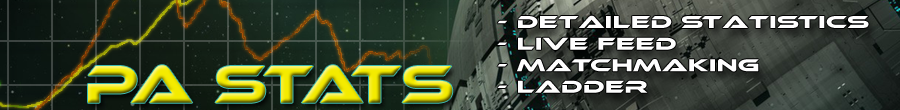
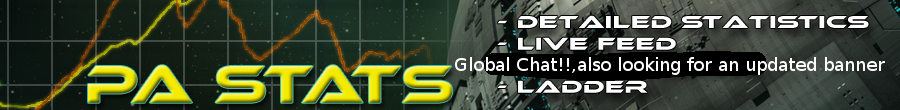
update some infos

Changed region(s): [[0.4978, 0.4636, 0.9956, 0.7364]]

diff --git a/src/main/webapp/index.html b/src/main/webapp/index.html
@@ -8,8 +8,12 @@
 			It enables you to view your statistics like your army count over time or how many resources of what type you gathered.
 			<br/>I am working on adding more features. You can click <a href="/listgames">Games</a> above to check the current list of games recorded.<br/>Recorded games should stay on the page IF they are longer than 5 minutes</div><br/>
 			
-			<h3>1vs1 Matchmaking</h3>
-			<div>PA Stats also offers 1vs1 matchmaking. Just install PA Stats, enter the server browser and click PA Stats 1vs1. Read this <a href="http://exodusesports.com/guides/matchmaking-pa-stats/">Guide</a> for more info about it.</div>
+			<h3>Global Chat</h3>
+			<div>PA Stats adds <a href="https://forums.uberent.com/threads/rel-pa-chat.67603" target="_blank">the PA Chat mod</a>. That means once you start PA you will have a global chat windows with people being active in it. Join our community now :)</div>
+			<br/>
+			
+			<h3>Custom servers</h3>
+			<div>PA Stats also lists custom servers, <a href="http://exodusesports.com/guides/planetary-annihilation-dedicated-server-setup/" target="_blank">here</a> is described how you can setup such servers. </div>
 			<br/>
 			
 			<h3>How does it work?</h3>
@@ -17,11 +21,18 @@
 			The mod gathers your game data and sends it to this server every 5 seconds.
 			The exchange of data between the mod and the server happens with a json webservice. If you have a nice idea for a tool that needs access to the data ask <a href="https://forums.uberent.com/members/cola_colin.5269/">me</a> for it.
 			<br/><br/>
+			
+			<h3>Do I need to update this all the time?</h3>
+			<div>No! PA Stats is updated automatically</div>
+			<br/>
+			
 			</div>
 			<h3>I want this...</h3>
 			<div>Check out the <a href="/download">Installation section.</a></div>
 			<br/>
+			
 			<h3>Can you show me some nice video about it?</h3>
+			<div>Well yes here you go, though notice it is a little outdated, PA Stats has even more functions now!</div>
 			<iframe width="560" height="315" src="http://www.youtube.com/embed/TE_VrQhR39w" frameborder="0" allowfullscreen></iframe>
 			<br/>Thanks to brianpurkiss from <a href="http://pamatches.com">PA Matches</a> for the video.
 			<br/><br/>
